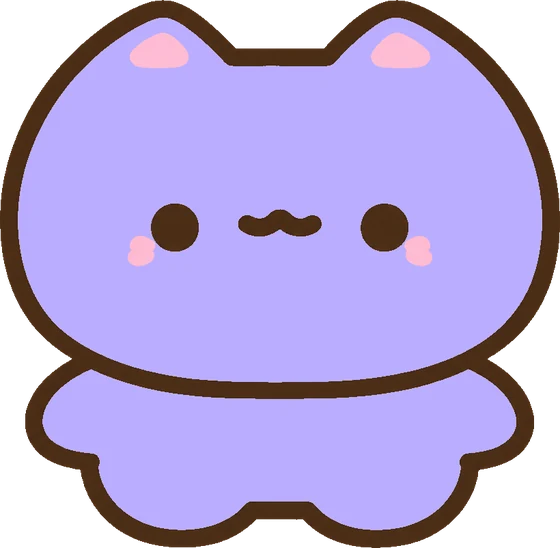
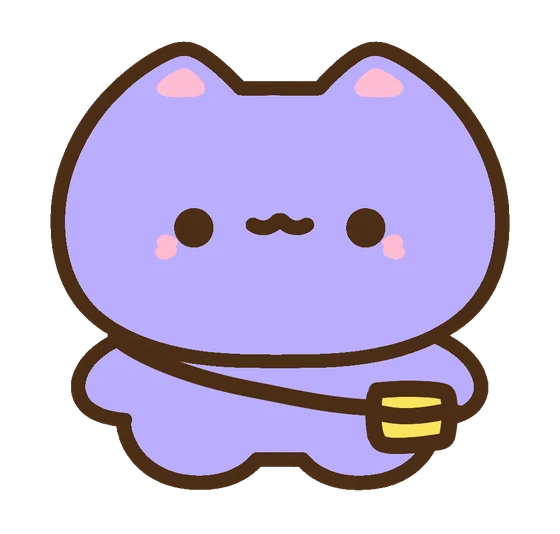
Miuu wears his yellow bag; Earth not NYC; TikTok count; bios and series copy
- Miuu art = base layer + wing-yellowbag layer from the Miuu Note Figma (Outfit Catalogue)
- Miyomi is Miuu's roommate and girlfriend; Kiki is an innocent baby calico
- Story series are read from Ep. 1, only Little Days is standalone

diff --git a/lib/i18n.ts b/lib/i18n.ts
@@ -14,7 +14,7 @@ export const UI = {
   en: {
     metaTitle: "Miuu Studio · Home of Miuu, the alien kitty",
     metaDescription:
-      "Miuu Studio makes comics, short animations and cozy apps starring Miuu, an alien kitty from Catty Planet now living in New York.",
+      "Miuu Studio makes comics, short animations and cozy apps starring Miuu, an alien kitty from Catty Planet who now lives on Earth.",
     navCharacters: "Characters",
     navComics: "Comics",
     navReels: "Reels",
@@ -23,16 +23,17 @@ export const UI = {
     heroEyebrow: "Miuu Studio",
     heroTitle: "Hi! I'm Miuu, an alien kitty from Catty Planet.",
     heroBody:
-      "I live in New York now. Here you'll find my comics, my little videos, and the apps my friends and I make.",
+      "I live on Earth now. Here you'll find my comics, my little videos, and the apps my friends and I make.",
     heroCtaComics: "Read the comics",
     heroCtaInstagram: "Follow on Instagram",
-    statFollowers: "followers on Instagram",
+    statInstagram: "followers on Instagram",
+    statTiktok: "followers on TikTok",
     statDownloads: "Miuu Note downloads on Google Play",
     charactersEyebrow: "Meet the gang",
     charactersTitle: "Miuu and friends",
     comicsEyebrow: "Comics",
     comicsTitle: "Read Miuu's comics",
-    comicsBody: "Pick a series. Every episode stands on its own, so start anywhere.",
+    comicsBody: "Pick a series and start from Ep. 1.",
     comicsAll: "All series",
     pages: (n: number) => `${n} pages`,
     episodes: (n: number) => `${n} episodes`,
@@ -45,7 +46,7 @@ export const UI = {
     appsTitle: "Cozy apps from the studio",
     comingSoon: "Coming soon",
     visitSite: "Visit site",
-    footerTagline: "Comics, animation and cozy apps from New York.",
+    footerTagline: "Comics, animation and cozy apps starring Miuu and friends.",
     footerContact: "Contact",
     readerBack: "All series",
     readerPrev: "Previous",
@@ -57,7 +58,7 @@ export const UI = {
   ko: {
     metaTitle: "Miuu Studio · 외계 고양이 미유의 집",
     metaDescription:
-      "캐띠 행성에서 온 외계 고양이 미유의 만화, 짧은 애니메이션, 그리고 아늑한 앱을 만드는 Miuu Studio예요.",
+      "지구에 사는 캐띠 행성 출신 외계 고양이 미유의 만화, 짧은 애니메이션, 그리고 아늑한 앱을 만드는 Miuu Studio예요.",
     navCharacters: "캐릭터",
     navComics: "만화",
     navReels: "릴스",
@@ -65,16 +66,17 @@ export const UI = {
     switchLang: "English",
     heroEyebrow: "Miuu Studio",
     heroTitle: "안녕! 난 캐띠 행성에서 온 외계 고양이 미유야.",
-    heroBody: "지금은 뉴욕에 살아. 내 만화랑 짧은 영상, 친구들이랑 만든 앱이 다 여기 있어.",
+    heroBody: "지금은 지구에 살아. 내 만화랑 짧은 영상, 친구들이랑 만든 앱이 다 여기 있어.",
     heroCtaComics: "만화 보러 가기",
     heroCtaInstagram: "인스타그램 팔로우",
-    statFollowers: "인스타그램 팔로워",
+    statInstagram: "인스타그램 팔로워",
+    statTiktok: "틱톡 팔로워",
     statDownloads: "Google Play Miuu Note 다운로드",
     charactersEyebrow: "친구들 소개",
     charactersTitle: "미유와 친구들",
     comicsEyebrow: "만화",
     comicsTitle: "미유 만화 보기",
-    comicsBody: "보고 싶은 시리즈를 골라요. 한 화씩 끝나는 이야기라 어디서 시작해도 돼요.",
+    comicsBody: "보고 싶은 시리즈를 골라 1화부터 읽어보세요.",
     comicsAll: "전체 시리즈",
     pages: (n: number) => `${n}컷`,
     episodes: (n: number) => `${n}화`,
@@ -87,7 +89,7 @@ export const UI = {
     appsTitle: "스튜디오가 만든 아늑한 앱",
     comingSoon: "곧 출시",
     visitSite: "사이트 보기",
-    footerTagline: "뉴욕에서 만드는 만화, 애니메이션, 그리고 아늑한 앱.",
+    footerTagline: "미유와 친구들이 나오는 만화, 애니메이션, 그리고 아늑한 앱.",
     footerContact: "문의",
     readerBack: "전체 시리즈",
     readerPrev: "이전",

diff --git a/lib/content.ts b/lib/content.ts
@@ -7,8 +7,8 @@ export const LINKS = {
   email: "support@miuustudio.com",
 };
 
-// Follower count from @miuustudio (2026-09-25); downloads from the Play Console (2026-10-09)
-export const STATS = { followers: "230K+", downloads: "1.8M+" };
+// Follower counts from the owner (2026-10-11); downloads from the Play Console (2026-10-09)
+export const STATS = { instagram: "230K+", tiktok: "210K+", downloads: "1.8M+" };
 
 // ---- Characters (art from the app: secret-note/assets/miuu)
 
@@ -19,8 +19,8 @@ export const CHARACTERS: Character[] = [
     id: "miuu",
     name: { en: "Miuu", ko: "미유" },
     bio: {
-      en: "An alien kitty from Catty Planet, now in New York. Always positive, a little clueless, never without his yellow bag.",
-      ko: "캐띠 행성에서 온 외계 고양이. 지금은 뉴욕에 살아요. 늘 긍정적이고 살짝 엉뚱해요. 노란 가방은 꼭 챙겨요.",
+      en: "An alien kitty from Catty Planet, now living on Earth. Always positive, a little clueless, never without his yellow bag.",
+      ko: "캐띠 행성에서 온 외계 고양이. 지금은 지구에 살아요. 늘 긍정적이고 살짝 엉뚱해요. 노란 가방은 꼭 챙겨요.",
     },
     bg: "bg-lilac",
   },
@@ -28,8 +28,8 @@ export const CHARACTERS: Character[] = [
     id: "miyomi",
     name: { en: "Miyomi", ko: "미요미" },
     bio: {
-      en: "Cool, quiet and secretly rich. Says very little, but always has Miuu's back.",
-      ko: "말수 적고 쿨한 부자 고양이. 티는 안 내도 늘 미유 편이에요.",
+      en: "Miuu's roommate and girlfriend. Cool, quiet and secretly rich.",
+      ko: "미유의 룸메이트이자 여자친구. 말수 적고 쿨한 숨은 부자예요.",
     },
     bg: "bg-blush",
   },
@@ -46,8 +46,8 @@ export const CHARACTERS: Character[] = [
     id: "kiki",
     name: { en: "Kiki", ko: "키키" },
     bio: {
-      en: "A tiny calico show-off. Miuu took him in on a rainy day.",
-      ko: "자랑이 특기인 꼬마 삼색 고양이. 비 오는 날 미유가 데려왔어요.",
+      en: "An innocent baby calico. Miuu took him in on a rainy day.",
+      ko: "천진난만한 아기 삼색 고양이. 비 오는 날 미유가 데려왔어요.",
     },
     bg: "bg-butter",
   },
@@ -132,8 +132,8 @@ export const SERIES: Series[] = [
     id: "daily",
     title: { en: "Little Days", ko: "소소한 하루" },
     blurb: {
-      en: "Short comics about Miuu, Miyomi and Kiki.",
-      ko: "미유, 미요미, 키키의 짧은 일상 만화.",
+      en: "Short comics about Miuu, Miyomi and Kiki. Each one stands on its own.",
+      ko: "미유, 미요미, 키키의 짧은 일상 만화. 한 편씩 끝나는 이야기예요.",
     },
     episodes: [
       { slug: "investment", title: { en: "Miyomi's Investment", ko: "미요미의 투자" }, pages: { en: 14 } },

diff --git a/components/homePage.tsx b/components/homePage.tsx
@@ -26,7 +26,8 @@ export default function HomePage({ locale }: { locale: Locale }) {
               </a>
             </div>
             <dl className="mt-10 flex flex-wrap gap-x-10 gap-y-4">
-              <Stat value={STATS.followers} label={t.statFollowers} />
+              <Stat value={STATS.instagram} label={t.statInstagram} />
+              <Stat value={STATS.tiktok} label={t.statTiktok} />
               <Stat value={STATS.downloads} label={t.statDownloads} />
             </dl>
           </div>
